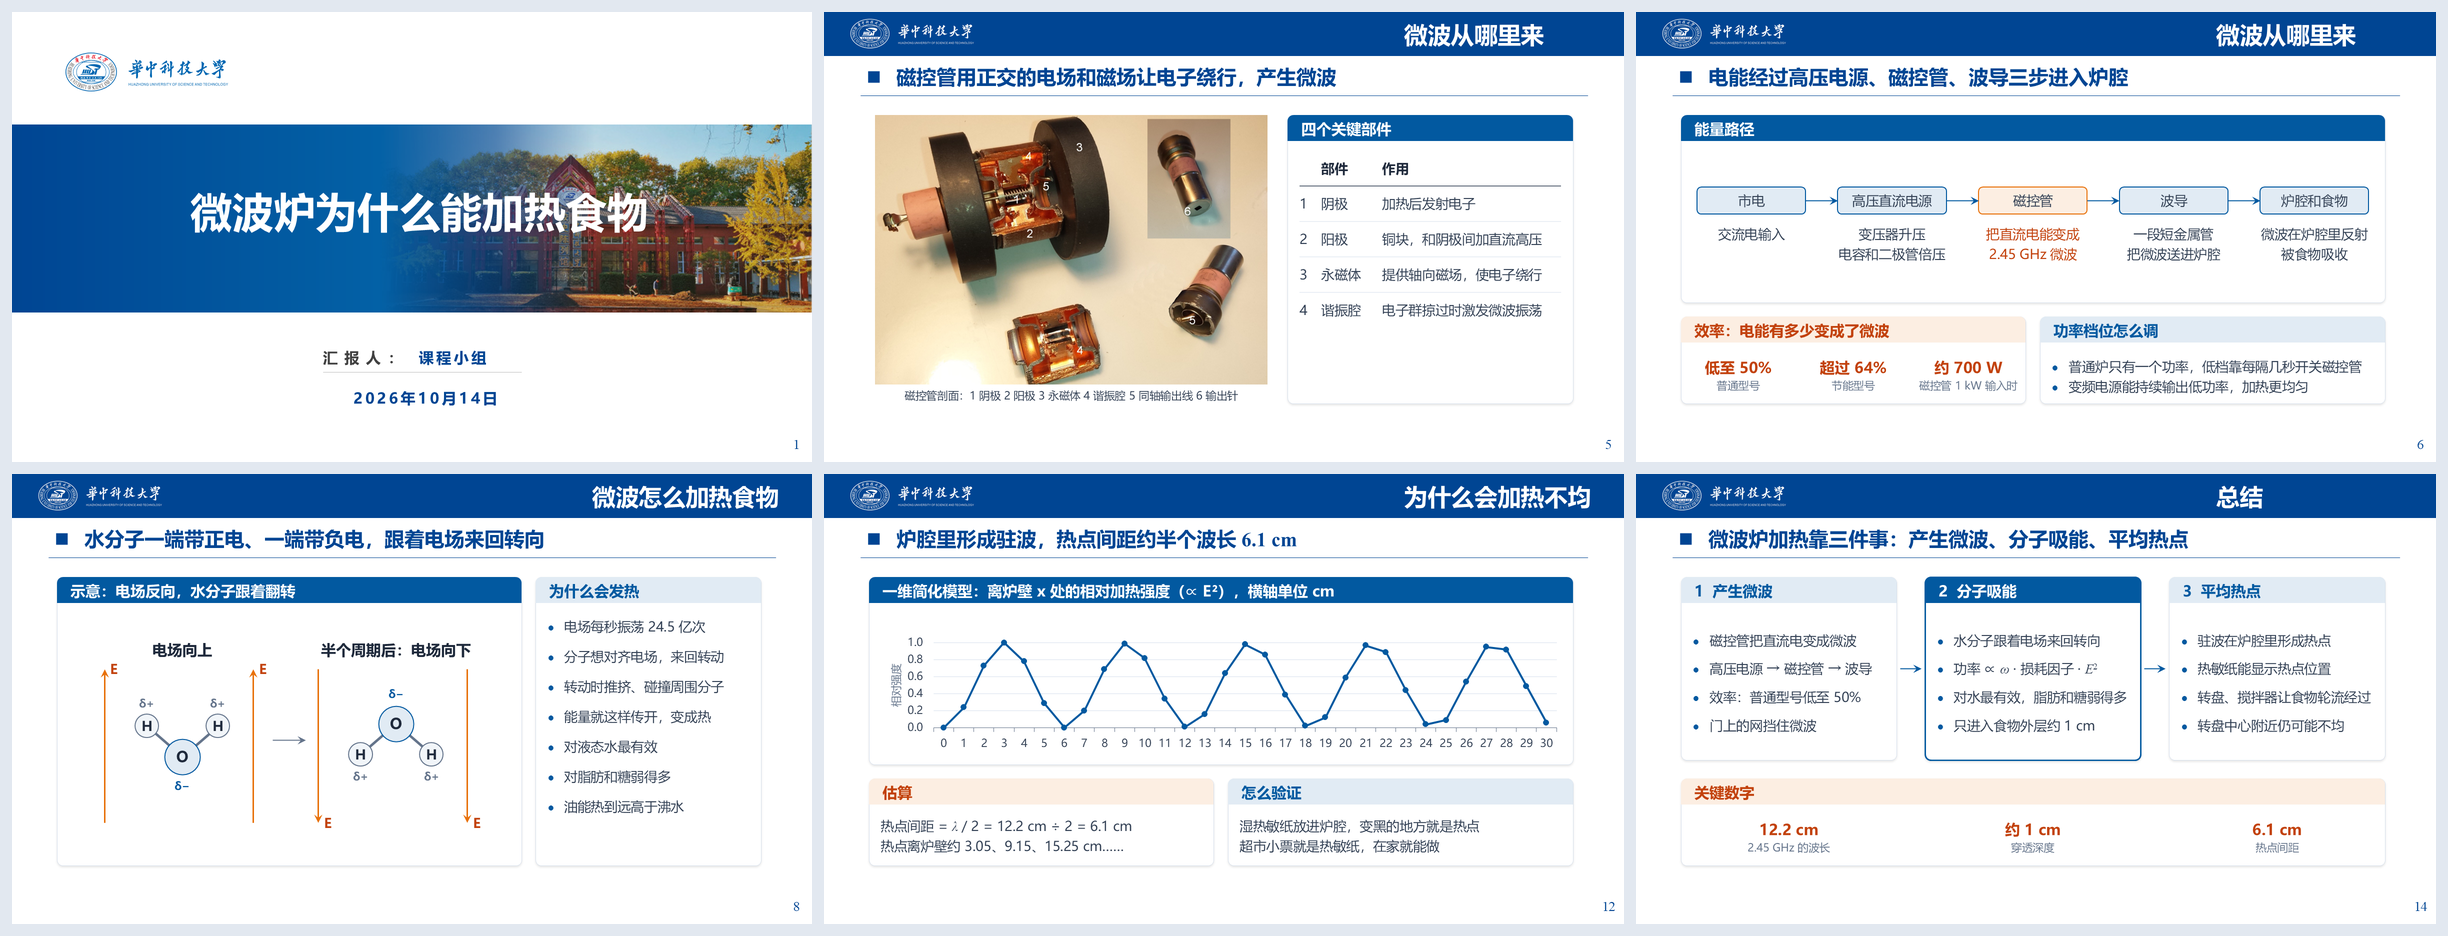
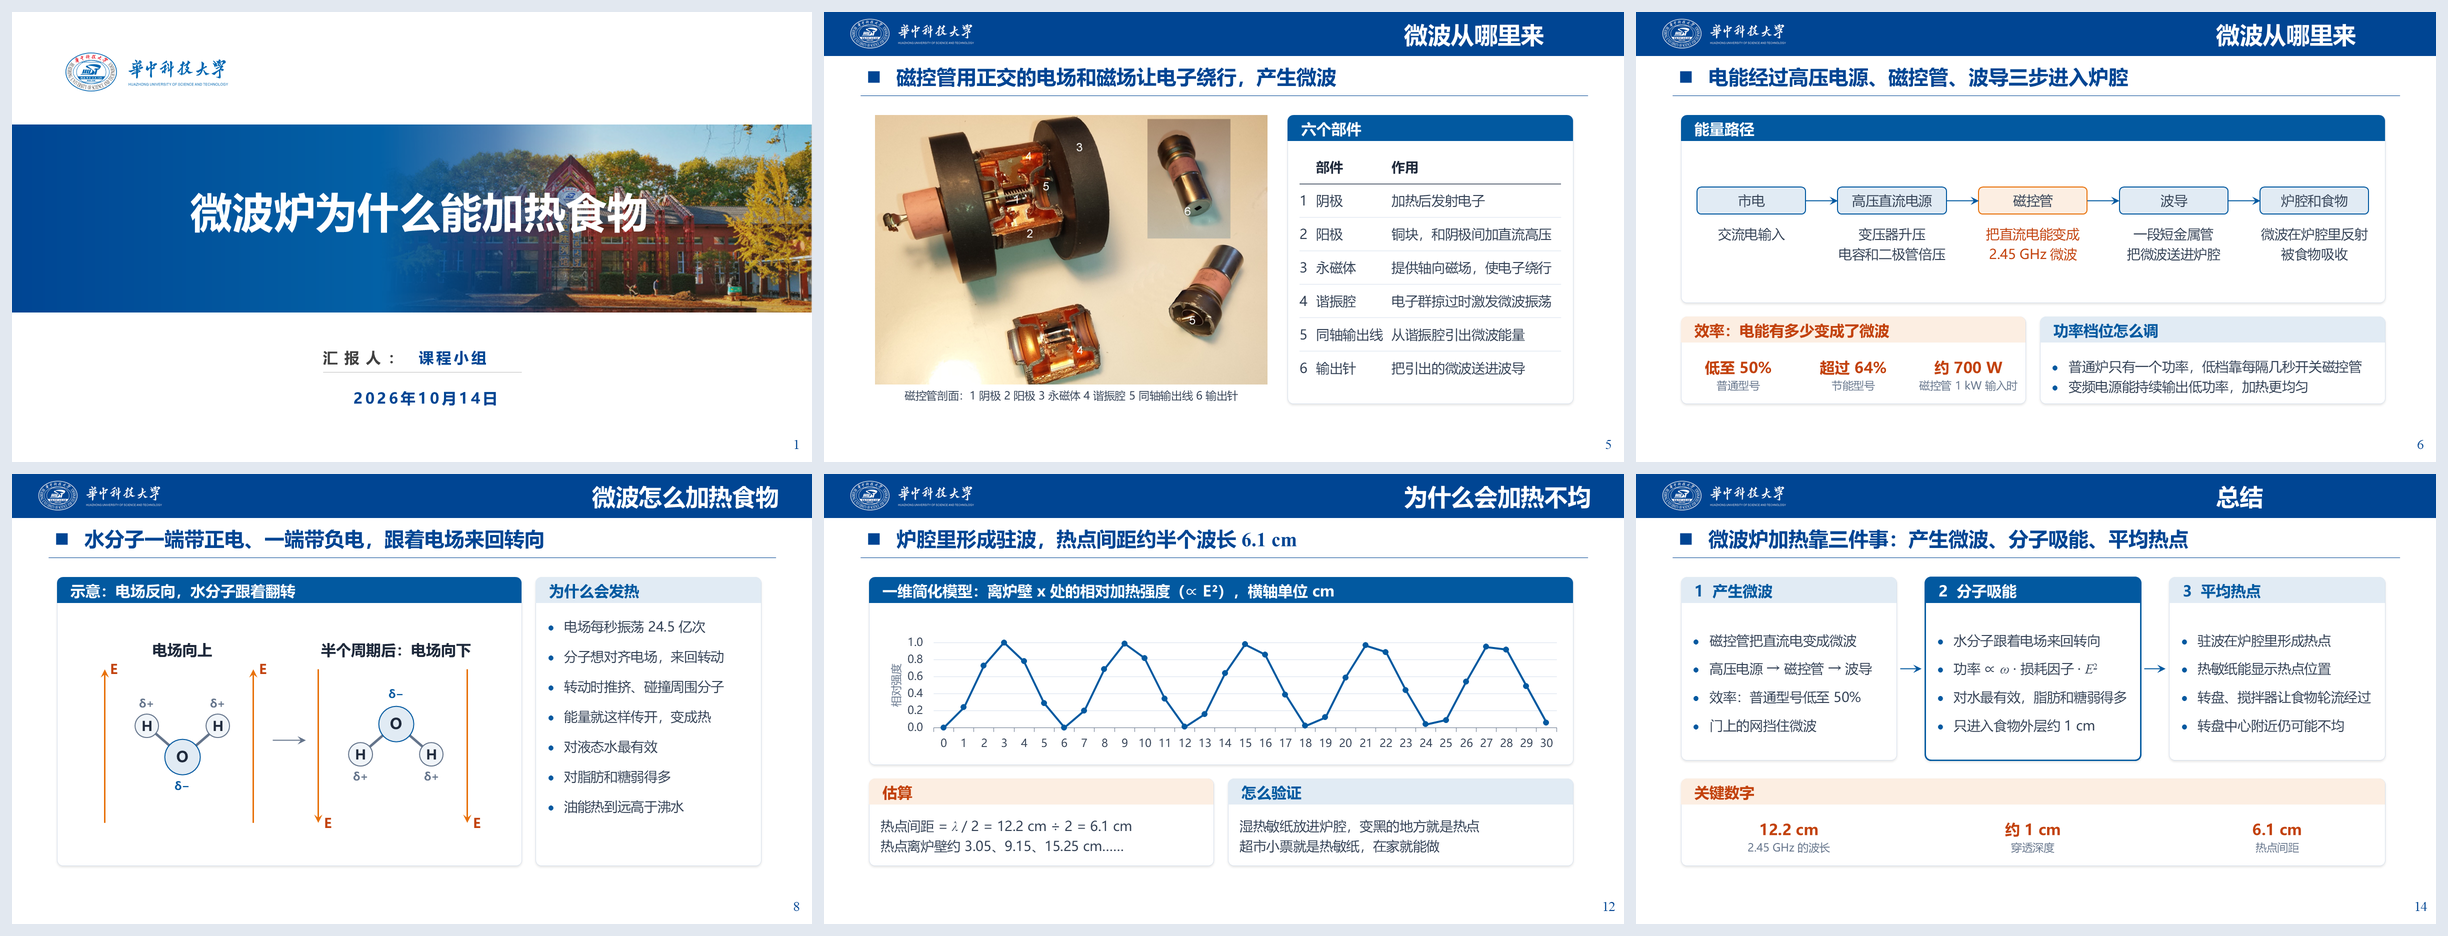
微波炉示例：磁控管部件表补全 5、6 号部件，表格底边与照片对齐

Changed region(s): [[0.5278, 0.1239, 0.652, 0.4028]]

diff --git a/examples/microwave/build_deck.py b/examples/microwave/build_deck.py
@@ -53,17 +53,20 @@ c.bullets(Box(body.l + 0.5, body.t - 0.4, body.w - 1.0, 3.9),
 # 图为主（7 + 5）：磁控管剖面 + 部件表
 c = deck.content(SECTIONS[0], "磁控管用正交的电场和磁场让电子绕行，产生微波",
                  notes="按图注认部件。阴极发射电子，阳极加高压，永磁体让电子绕着阴极转，"
-                       "电子群掠过谐振腔时激发出微波，再由 5、6 号的输出结构送出去。")
-c.web_figure(FIG / "magnetron.jpg", g.box(0, 0, 7, 6),
-             "磁控管剖面：1 阴极 2 阳极 3 永磁体 4 谐振腔 5 同轴输出线 6 输出针")
-body = c.card(g.box(7, 0, 5, 6), header="四个关键部件")
-c.table(body.l + 0.5, body.t - 0.4, [0.9, 2.6, body.w - 4.5], [
+                       "电子群掠过谐振腔时激发出微波，5、6 号的输出结构从谐振腔里引出一部分微波能量，送进波导。")
+photo = c.web_figure(FIG / "magnetron.jpg", g.box(0, 0, 7, 6),
+                     "磁控管剖面：1 阴极 2 阳极 3 永磁体 4 谐振腔 5 同轴输出线 6 输出针")
+# 表格按图注的编号把六个部件都列出来，讲解时对着图逐个指；行高按照片下沿反推，表格底边和照片底边对齐
+body = c.card(g.box(7, 0, 5, 6), header="六个部件")
+c.table(body.l + 0.5, body.t - 0.4, [0.7, 3.2, body.w - 4.9], row_h=(body.t - 0.4 - photo.b) / 7, rows=[
     ("", "部件", "作用"),
     ("1", "阴极", "加热后发射电子"),
     ("2", "阳极", "铜块，和阴极间加直流高压"),
     ("3", "永磁体", "提供轴向磁场，使电子绕行"),
     ("4", "谐振腔", "电子群掠过时激发微波振荡"),
-], row_h=1.5)
+    ("5", "同轴输出线", "从谐振腔引出微波能量"),
+    ("6", "输出针", "把引出的微波送进波导"),
+])
 
 # 流程 + 说明合在一张卡里；效率单独成卡，用两个关键数字
 c = deck.content(SECTIONS[0], "电能经过高压电源、磁控管、波导三步进入炉腔",
